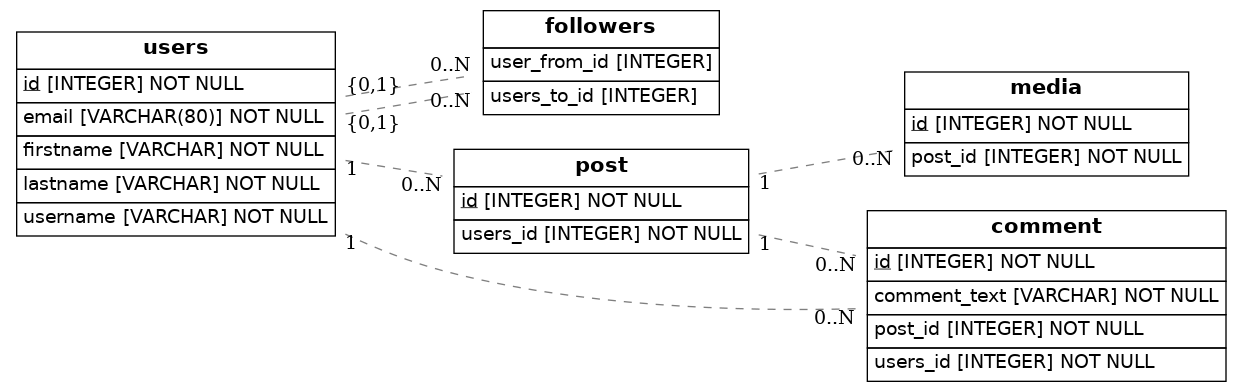
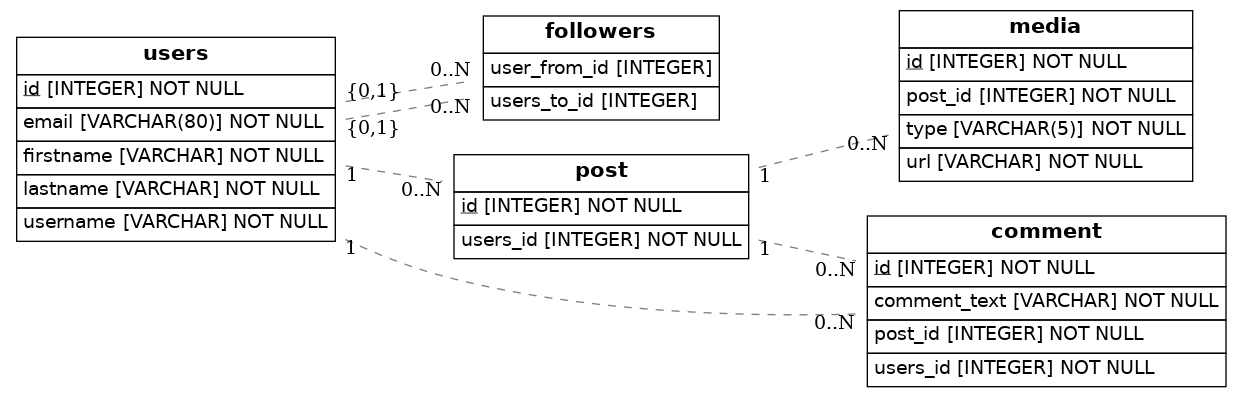
finalizado

diff --git a/src/models.py b/src/models.py
@@ -1,7 +1,7 @@
 import os
-import sys
+import enum
 from sqlalchemy.orm import relationship, declarative_base, Mapped, mapped_column
-from sqlalchemy import create_engine, ForeignKey, String, Column, Table
+from sqlalchemy import create_engine, ForeignKey, String, Column, Table, Enum
 from eralchemy2 import render_er
 
 Base = declarative_base()
@@ -39,11 +39,16 @@ class Comment(Base):
     users: Mapped["Users"] = relationship(back_populates="comment")
     post_id: Mapped[int] = mapped_column(ForeignKey("post.id"))
     post: Mapped["Post"] = relationship(back_populates="comment")
-    
+
+class MyEnum(enum.Enum):
+    image = ".img"
+    video = ".mp4"
+
 class Media(Base):
     __tablename__ = 'media'
     id: Mapped[int] = mapped_column(primary_key=True)
-
+    type: Mapped[MyEnum] = mapped_column(nullable=False)
+    url: Mapped[str] = mapped_column(nullable=False)
     post_id: Mapped[int] = mapped_column(ForeignKey("post.id"))
     post: Mapped["Post"] = relationship(back_populates="media")
 
